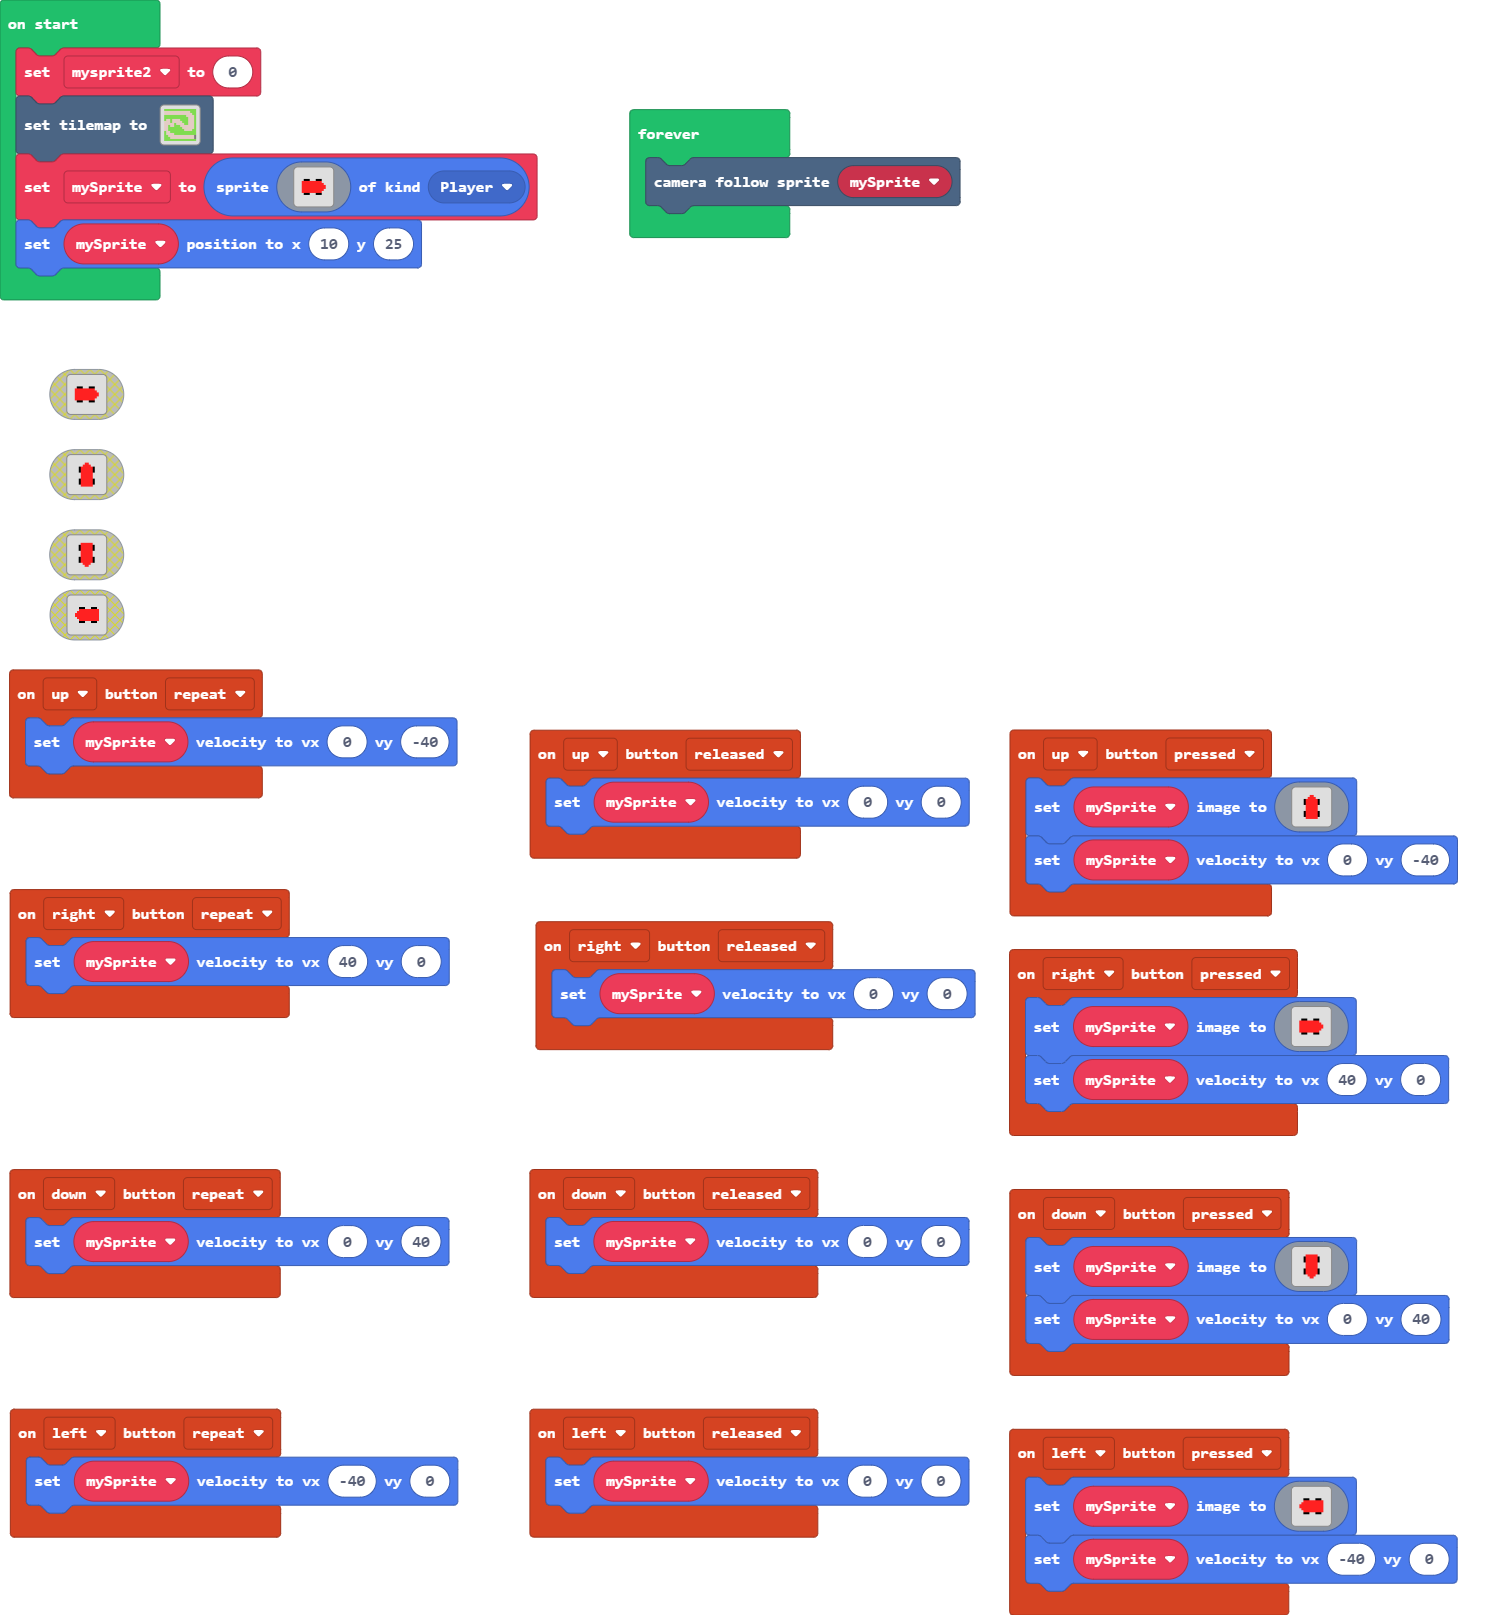
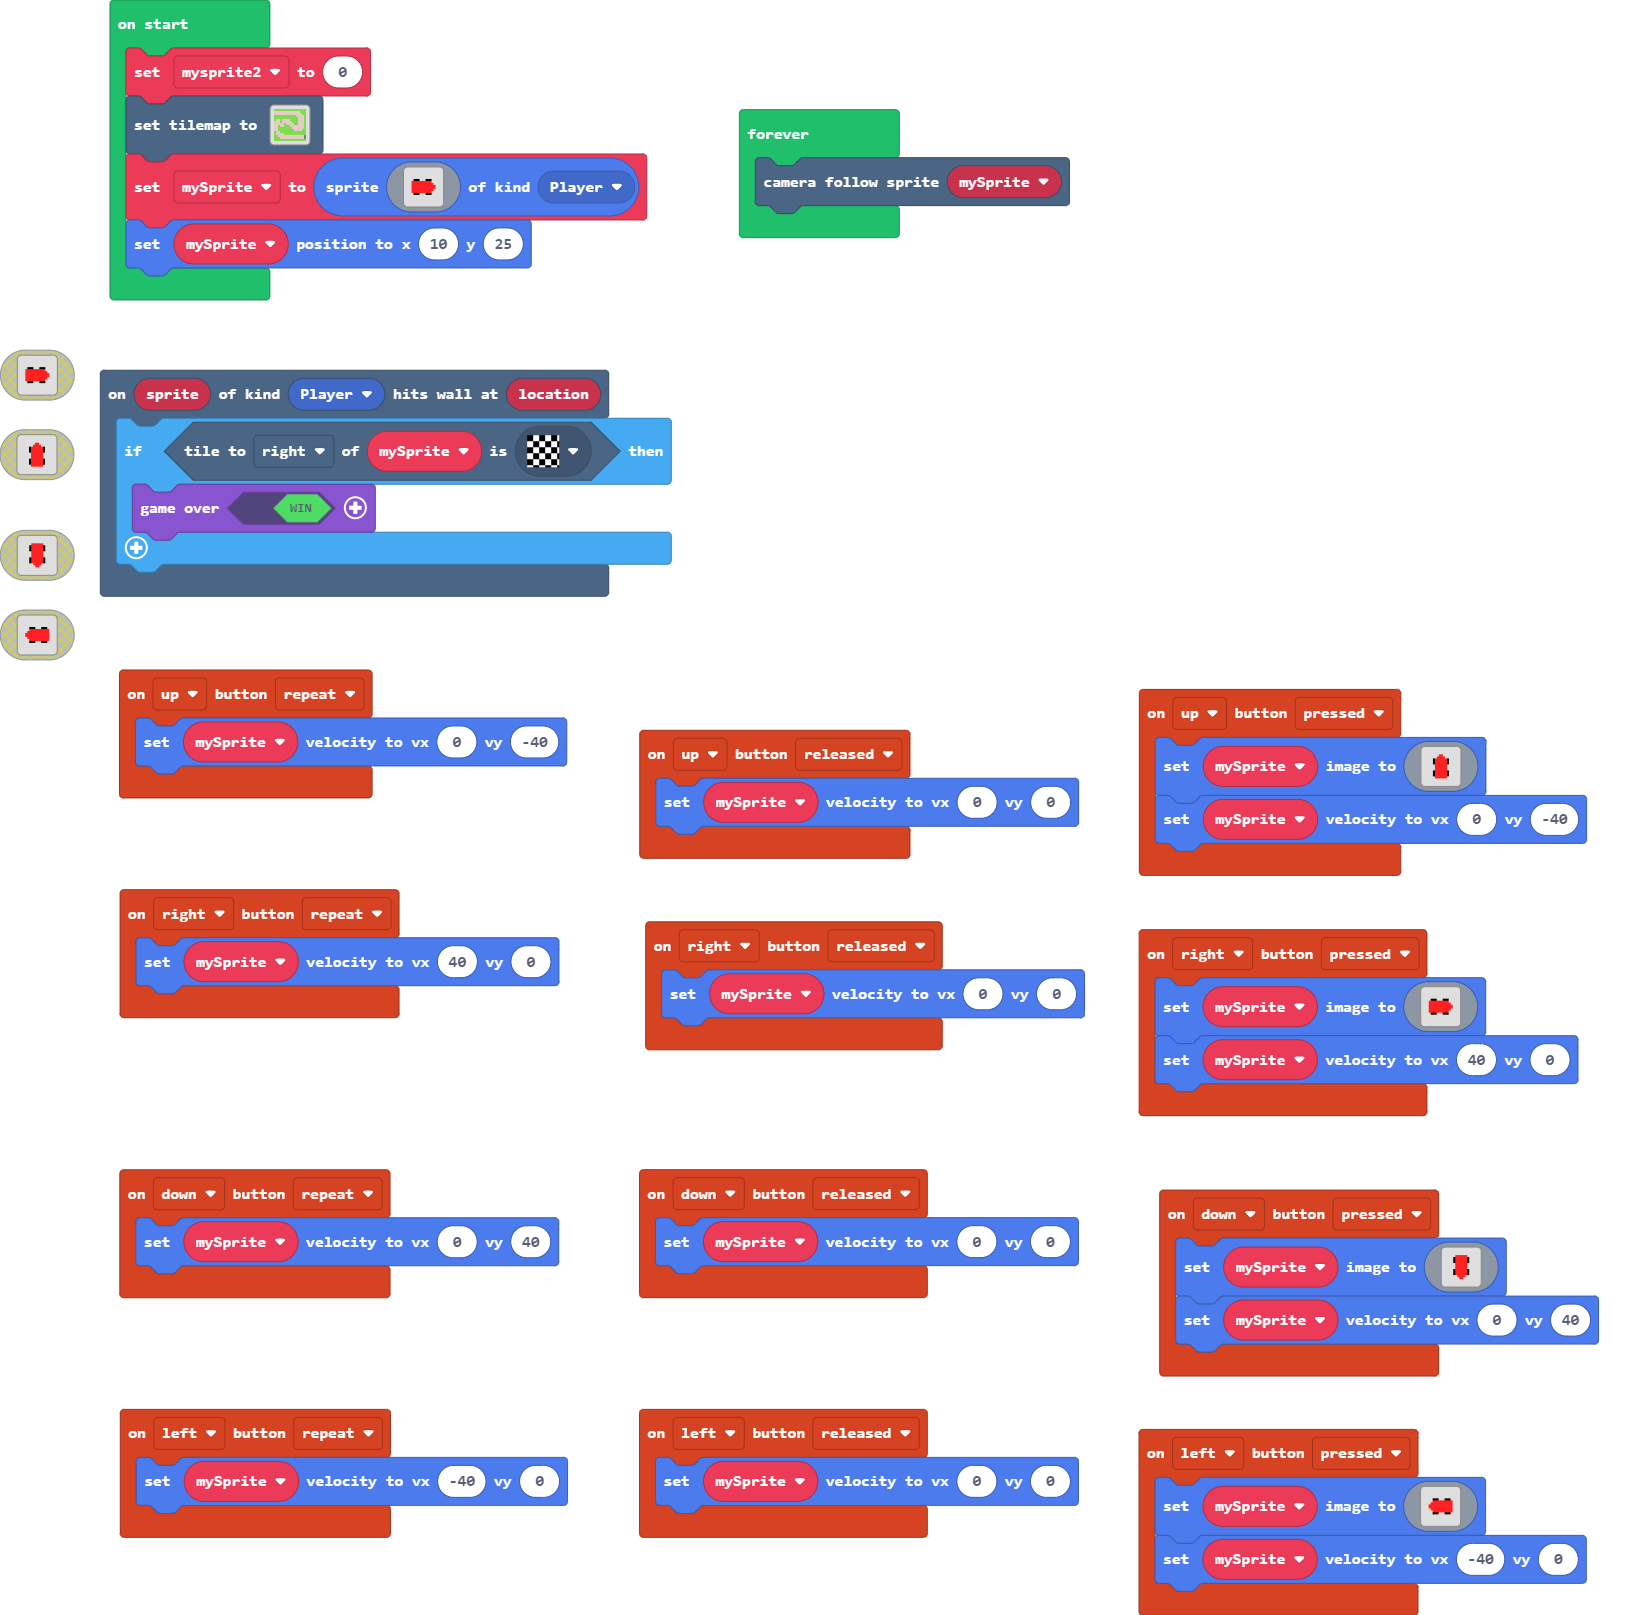
Added a win thing, might change later

Changed region(s): [[0.0, 0.2167, 0.9655, 1.0], [0.0, 0.0, 0.6541, 0.1858], [0.9344, 0.9598, 0.9655, 0.9907]]

diff --git a/main.ts b/main.ts
@@ -1,3 +1,8 @@
+scene.onHitWall(SpriteKind.Player, function (sprite, location) {
+    if (mySprite.tileKindAt(TileDirection.Right, myTiles.tile1)) {
+        game.over(true)
+    }
+})
 controller.up.onEvent(ControllerButtonEvent.Pressed, function () {
     mySprite.setImage(img`
         . . . . . . . . . . . . . . . . 
